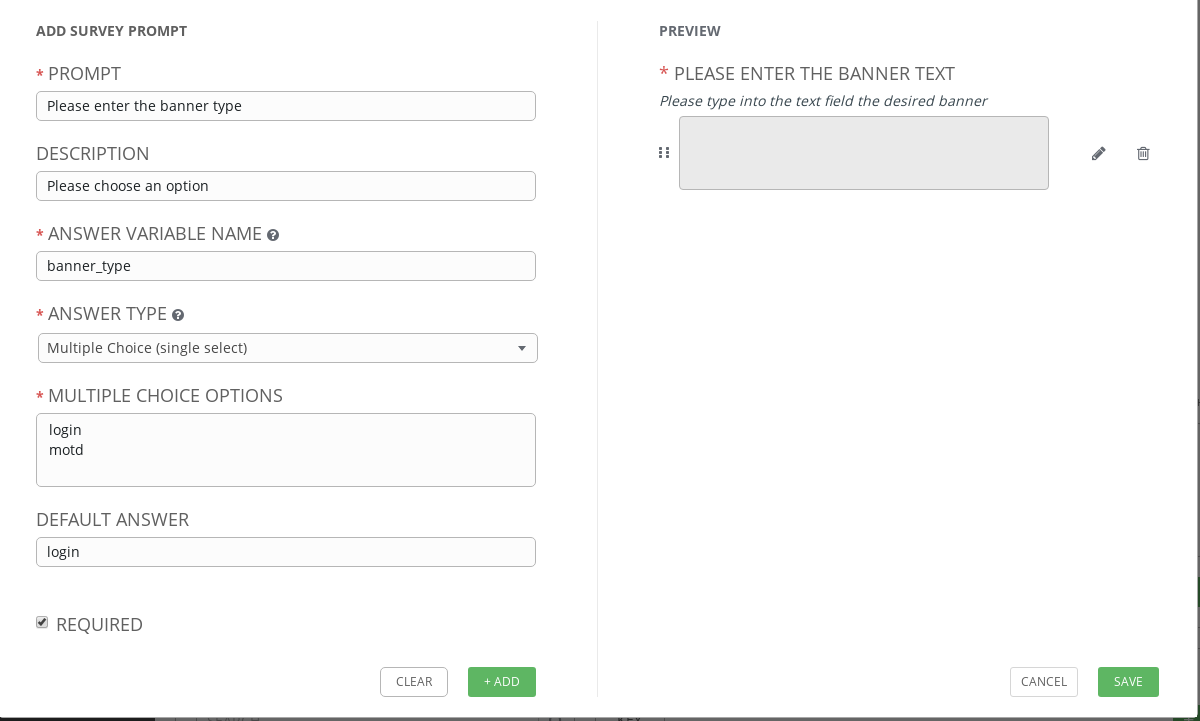
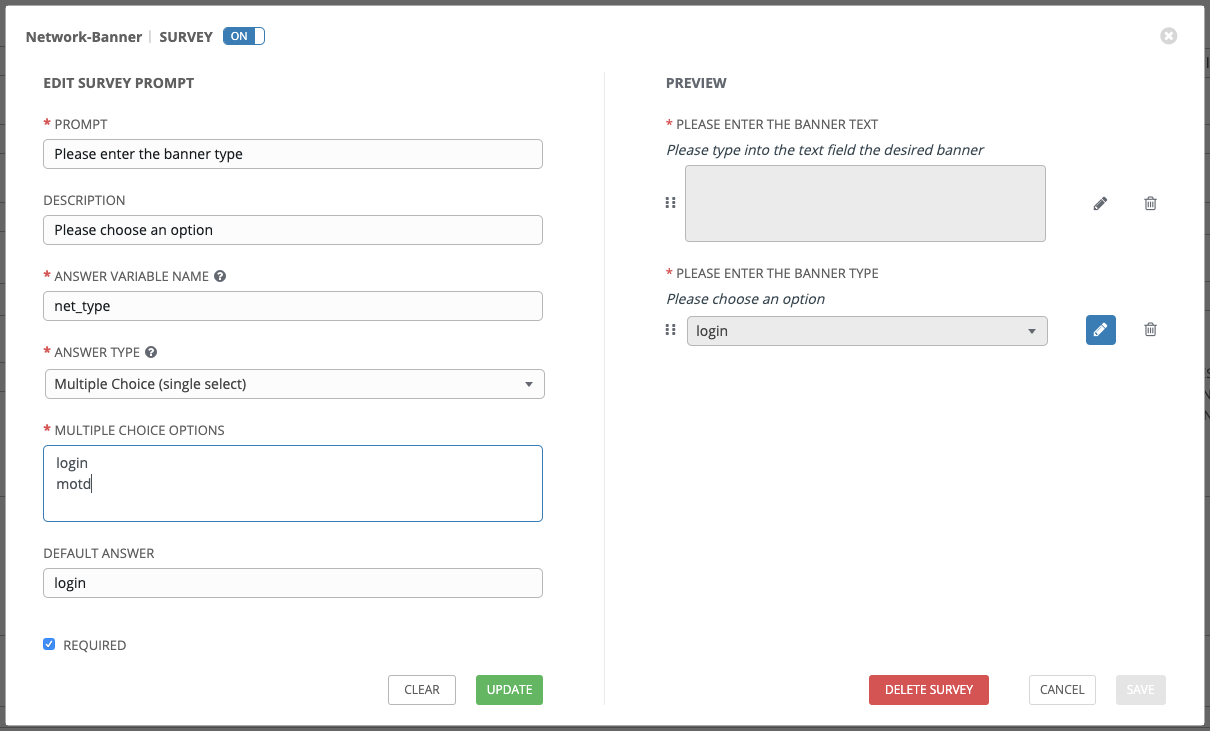
cleaning up exercise to match new  tower_workshop format

diff --git a/exercises/ansible_network/7-tower-survey/README.md b/exercises/ansible_network/7-tower-survey/README.md
@@ -42,33 +42,40 @@ Demonstrate the use of Ansible Tower [survey feature](https://docs.ansible.com/a
 Here is what the  `network_banner.yml` Ansible Playbook looks like:
 
 <!-- {% raw %} -->
-```yaml
+```yml
 ---
-- name: SET ROUTER BANNERS
-  hosts: all
+- name: set router banners
+  hosts: routers
   gather_facts: no
 
   tasks:
-
-    - name: LOAD BANNER ONTO NETWORK DEVICE
-      include_tasks: "{{ ansible_network_os }}_banner.yaml"
+    - name: load banner onto network device
       vars:
         - network_banner:  "{{ net_banner | default(None) }}"
-        - banner_type: "{{ banner_type | default('login') }}"
+        - banner_type: "{{ net_type | default('login') }}"
+      include_role:
+        name: banner
 ```
 <!-- {% endraw %} -->
 
 
 > Note: You can also view the Ansible Playbook here: [https://github.com/network-automation/tower_workshop](https://github.com/network-automation/tower_workshop)
 
+The role **banner** has a very simple `main.yml` file:
+
+```yml
+- name: configure banner
+  include_tasks: "{{ ansible_network_os }}.yml"
+```
+
 The `ansible_network_os` variable is being used to parameterize the network OS and create a vendor neutral playbook.
 
-If you are working with a junos device, this playbook would call for a task file called `junos_banner.yaml`.  If you are using an IOS-XE device, this playbook would call for a task file called `ios_banner.yaml`. This file will in turn contain the platform specific tasks:
+If you are working with a junos device, this playbook would call for a task file called `junos.yml`.  If you are using an IOS-XE device, this playbook would call for a task file called `ios.yml`. This file will in turn contain the platform specific tasks:
 
 <!-- {% raw %} -->
-```yaml
+```yml
 ---
-- name: ADD THE JUNOS BANNER
+- name: add the junos banner
   junos_banner:
     text: "{{ network_banner }}"
     banner: "{{ banner_type }}"
@@ -81,7 +88,7 @@ Also note that we are passing in 2 variables to the task file.
 
 1. `network_banner`: This variable is populated using the `net_banner` variable
 
-2. `banner_type`: This variable is populated by a variable named `banner_type`
+2. `banner_type`: This variable is populated by a variable named `net_type`
 
 
 ## Step 3: Create a survey
@@ -119,7 +126,7 @@ In this step you will create a *"survey"* of user input form to collect input fr
    |-------------------------|--------------------------------|
    | Prompt                  | Please enter the  banner type  |
    | Description             | Please choose an option        |
-   | Answer Variable Name    | `banner_type`                    |
+   | Answer Variable Name    | `net_type`                    |
    | Answer type             | Multiple Choice(single select) |
    | Multiple Choice Options | login <br>motd                        |
    | default answer          | login                          |
